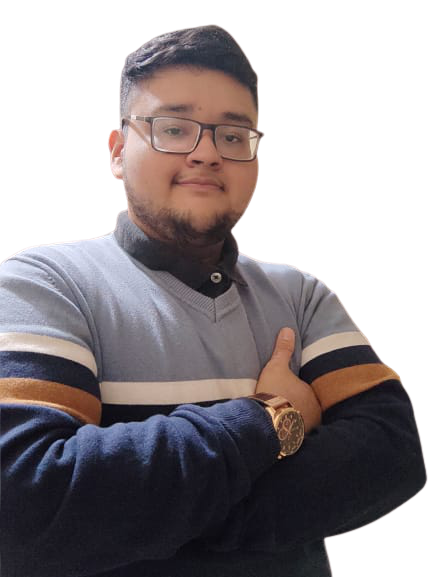
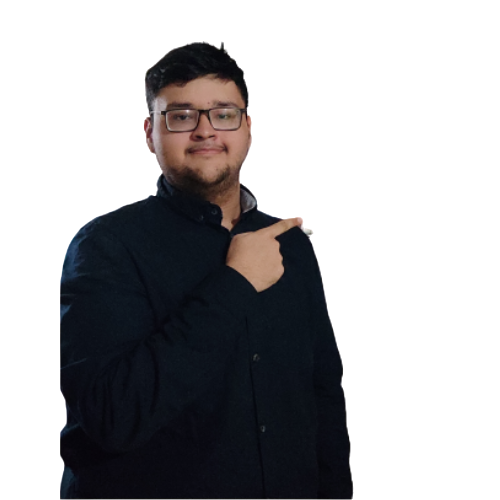
ready to deploy

diff --git a/src/styles/Home.css b/src/styles/Home.css
@@ -92,7 +92,7 @@ a {
 
 .landing-img {
   width: 100%;
-
+max-width: 600px;
   min-width: 360px;
 }
 
@@ -120,8 +120,8 @@ a {
 }
 
 .about-img-container {
-  width: 80%;
-  max-width: 350px;
+  width: 100%;
+  max-width: 500px;
   min-width: 280px;
   border: 15px solid #f3b32a;
 }
@@ -582,6 +582,13 @@ textarea:focus {
   border: 1px solid #f3b32a;
 }
 
+
+#nav {
+  background-color: #000 !important;
+  color: #fff !important;
+}
+
+
 /* media querys */
 
 @media screen and (max-width: 720px) {
@@ -591,6 +598,19 @@ textarea:focus {
     gap: 1px;
     width: 100%;
   }
+
+  .about-container {
+    width: 90%;
+    margin: 120px auto;
+    
+    
+  }
+
+  .about-description {
+    margin-top: 50px;
+    
+  }
+
 
   .up-button {
     right: 10px;
@@ -631,6 +651,37 @@ textarea:focus {
   .landing-description h1 {
     font-size: 25px;
   }
+  
+ #main {
+  font-size: 15px;
+ }
+ 
+  
+}
+
+
+
+@media screen and (min-width:720px) and (max-width: 1024px ) {
+  
+.about-description {
+  margin-top: 50px
+}
+  
+}
+
+
+
+@media screen and (min-width: 1000px) and (max-width: 1130px) {
+  .about-container{
+    flex-direction: column;
+    
+  }
+
+  .about-description {
+    margin-top: 50px
+  }
+
+
 }
 
 .form-section .message.success {

diff --git a/src/components/NavBar.js b/src/components/NavBar.js
@@ -3,12 +3,13 @@ import React from 'react';
 const NavBar = () => {
   return (
     <div  style={{ position: 'sticky', top: '0', zIndex: '999' }}>
-      <nav  className='navbar navbar-expand-lg navbar-dark bg-dark'>
+      <nav id='nav' className='navbar navbar-expand-lg navbar-dark bg-dark'>
         <div  className='container-fluid'>
           <a id='main' className='navbar-brand' href='#main'>
             Eduardo Alejandro
           </a>
           <button
+          
             className='navbar-toggler'
             type='button'
             data-bs-toggle='collapse'
@@ -17,7 +18,7 @@ const NavBar = () => {
             aria-expanded='false'
             aria-label='Toggle navigation'
           >
-            <span className='navbar-toggler-icon'></span>
+            <span id='button' className='navbar-toggler-icon'></span>
           </button>
 
           <div className='collapse navbar-collapse' id='navbarColor02'>

diff --git a/src/components/InterfaceTitle.js b/src/components/InterfaceTitle.js
@@ -2,8 +2,8 @@
 import React from 'react';
 import Typed from "typed.js";
 import {  useRef, useEffect } from "react";
-import landing from "../assets/landing.png";
 import { useState } from 'react';
+import { photo1 } from '../assets';
 
 
 const InterfaceTitle = () => {
@@ -77,7 +77,7 @@ const [value, setValue] = useState(false);
   </div>
 </div>
 <div className="landing-img-container">
-  <img src={landing} alt="landing" className="landing-img" />
+  <img src={photo1} alt="landing" className="landing-img" />
 </div>
 </section>
 

diff --git a/public/index.html b/public/index.html
@@ -9,7 +9,8 @@
       name="description"
       content="Web site created using create-react-app"
     />
-    <link rel="apple-touch-icon" href="%PUBLIC_URL%/logo192.png" />
+    <link rel="apple-touch-icon" href="icon.png" />
+    <link rel="shortcut icon" href="icon.png" type="image/x-icon">
     <!--
       manifest.json provides metadata used when your web app is installed on a
       user's mobile device or desktop. See https://developers.google.com/web/fundamentals/web-app-manifest/

diff --git a/src/assets/index.js b/src/assets/index.js
@@ -1,4 +1,4 @@
-export {default as landing} from "./landing.png";
+
 export {default as about} from "./about.png";
 export {default as spanishCv} from "./spanish-cv.pdf";
 export {default as free} from "./free.jpg";
@@ -6,3 +6,4 @@ export {default as ecommerce} from "./ecommerce.png";
 export {default as morty} from './morty.png';
 export {default as doc} from './doc.png';
 export {default as crud} from './crud.png';
+export {default as photo1} from './photo1.png';
